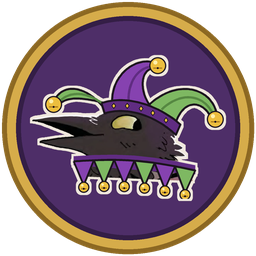
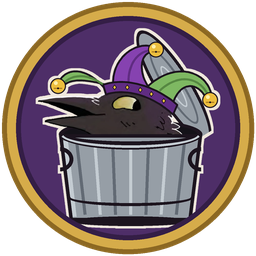
The Court Crow's picture is the crow in the can
Claude-Session: https://claude.ai/code/session_01BFnPY3Py9ruei4syarEJk6

diff --git a/haunt-roll-fail/tools/heckler-art.py b/haunt-roll-fail/tools/heckler-art.py
@@ -1,7 +1,7 @@
 #!/usr/bin/env python3
 # The hecklers of the "Roast Me" role (2026-11-25, good-game/Heckler.scala). The Root heckler, the Court Crow, is the Corvid
 # Conspiracy's character art (faction/mischief/cc-char.webp, laughing with its beak open) in a jester's cap drawn here.
-#   webp2/lfg/webhooks/heckler-root.png          the Court Crow's avatar (256, on a gold-ringed badge)
+#   webp2/lfg/webhooks/heckler-root.png          the Court Crow's avatar: the crow in the can on a gold-ringed badge (256)
 #   webp2/lfg/server-emoji/root_crowjester.png   the same crow for a Discord server emoji (128, transparent), to upload by hand
 #   webp2/lfg/server-emoji/root_jestercan.png    the capped crow peeking out of a trash can, lid up (128, transparent; asked for on
 #                                                2026-11-25), to upload by hand
@@ -243,11 +243,12 @@ def main():
     os.makedirs(os.path.join(BASE, "lfg/server-emoji"), exist_ok=True)
     emoji.resize((128, 128), Image.LANCZOS).save(os.path.join(BASE, "lfg/server-emoji/root_crowjester.png"), optimize=True)
     os.makedirs(os.path.join(BASE, "lfg/webhooks"), exist_ok=True)
-    badge(emoji).resize((256, 256), Image.LANCZOS).save(os.path.join(BASE, "lfg/webhooks/heckler-root.png"), optimize=True)
     sq = Image.open(os.path.join(BASE, "nort/images/clan/squirrel.webp")).convert("RGBA")
     sq.resize((256, 256), Image.LANCZOS).save(os.path.join(BASE, "lfg/webhooks/heckler-nort.png"), optimize=True)
     bin_ = edged(fit(can(crow(with_collar=False)), 512, 12))
     bin_.resize((128, 128), Image.LANCZOS).save(os.path.join(BASE, "lfg/server-emoji/root_jestercan.png"), optimize=True)
+    # the crow in the can is the Court Crow's picture too (2026-11-25, liked best)
+    badge(fit(bin_, 512, 0)).resize((256, 256), Image.LANCZOS).save(os.path.join(BASE, "lfg/webhooks/heckler-root.png"), optimize=True)
 
 
 if __name__ == "__main__":

diff --git a/CLAUDE.md b/CLAUDE.md
@@ -1260,7 +1260,7 @@ server. No session can reach the server, and none needs to.
 - The "Roast Me" role (2026-11-25, asked for: a notification role that makes fun of you while you play): a member with it gets, under
   each of their turn pings, a jab from the game's heckler, posted by the same webhook in the same thread under the heckler's own name and
   picture (a webhook post's `username` and `avatar_url`, `persona` in `Tournament.post`), naming them without pinging them again, and
-  fitting the ping's reason: Root's Court Crow (the Corvid character art in a jester's cap), Northgard's Ratatoskr (the Norse squirrel who
+  fitting the ping's reason: Root's Court Crow (the Corvid character art in a jester's cap, peeking out of a trash can), Northgard's Ratatoskr (the Norse squirrel who
   carries the eagle's insults down Yggdrasil), Pincer's Pamphleteer and Company of Heroes' Sergeant Major (`good-game/Heckler.scala`, its
   lines there; the jabs mock the play, never the person). The bot checks the role on each ping. The owner makes it with the server changes
   `role Roast Me` and `self-role Roast Me`; `roast-role <role>` picks another (`off`: none), `roasts` says how it stands. The pictures are
